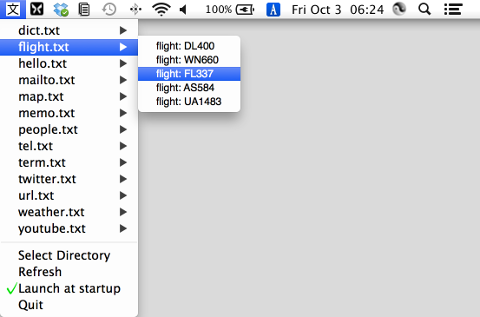
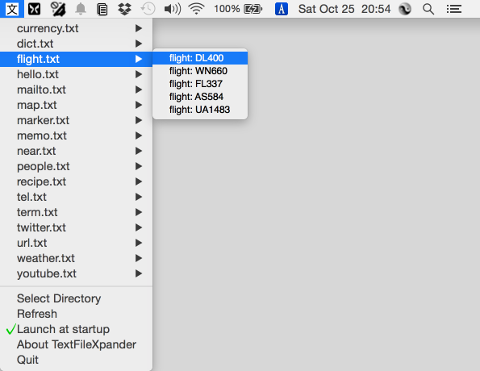
Add "currency:" magic word. Change the site for "flight:" magic word. Modify "route:" magic word, add "from: here". Change the site for "weather:" magic word.

Changed region(s): [[0.0, 0.0, 1.0, 1.0]]

diff --git a/README.md b/README.md
@@ -19,29 +19,30 @@ TextFileXpander does not have many rules.
 |:--|:--|:--:|:--:|:--:|:--:|
 |"---"|Separator|o|o|o|o|
 |"--- text"|Separator with Text|*1|*1|o|o|
-|marker:|Change Text Color|o|o|*4|o|
-|dict:|Launch the built-in dictionary|o|x|o|x|
-|flight:|Open Google Search|o|o|o|o|
-|mailto:|Launch the email client|o|o|o|o|
-|map:|Open Google Maps|o|o|o|o|
-|near:|Open Foursquare|o|o|o|o|
-|people:|Launch Contacts|*2|x|x|*3|
-|recipe:|Open Epicurious.com|o|o|*4|o|
-|route:|Open Google Maps|o|o|o|o|
-|tel:|Open Phone app|x|x|o|o|
-|twitter:|Post to Twitter|o|x|o|o|
-|url:|Open an URL in the browser|o|o|o|o|
-|weather:|Open weather.com|o|o|o|o|
-|youtube:|Open YouTube|o|o|o|o|
+|[marker:](https://github.com/wanswings/TextFileXpanderData/blob/master/marker/marker.md)|Change Text Color|o|o|o|o|
+|[currency:](https://github.com/wanswings/TextFileXpanderData/blob/master/currency/currency.md)|Open Google Finance|o|o|*4|o|
+|[dict:](https://github.com/wanswings/TextFileXpanderData/blob/master/dict/dict.md)|Launch the built-in dictionary|o|x|o|x|
+|[flight:](https://github.com/wanswings/TextFileXpanderData/blob/master/flight/flight.md)|Open FlightAware|o|o|o|o|
+|[mailto:](https://github.com/wanswings/TextFileXpanderData/blob/master/mailto/mailto.md)|Launch the email client|o|o|o|o|
+|[map:](https://github.com/wanswings/TextFileXpanderData/blob/master/map/map.md)|Open Google Maps|o|o|o|o|
+|[near:](https://github.com/wanswings/TextFileXpanderData/blob/master/near/near.md)|Open Foursquare|o|o|o|o|
+|[people:](https://github.com/wanswings/TextFileXpanderData/blob/master/people/people.md)|Launch Contacts|*2|x|x|*3|
+|[recipe:](https://github.com/wanswings/TextFileXpanderData/blob/master/recipe/recipe.md)|Open Epicurious.com|o|o|o|o|
+|[route:](https://github.com/wanswings/TextFileXpanderData/blob/master/map/map.md)|Open Google Maps|o|o|o|o|
+|[tel:](https://github.com/wanswings/TextFileXpanderData/blob/master/tel/tel.md)|Open Phone app|x|x|o|o|
+|[twitter:](https://github.com/wanswings/TextFileXpanderData/blob/master/twitter/twitter.md)|Post to Twitter|o|x|o|o|
+|[url:](https://github.com/wanswings/TextFileXpanderData/blob/master/url/url.md)|Open an URL in the browser|o|o|o|o|
+|[weather:](https://github.com/wanswings/TextFileXpanderData/blob/master/weather/weather.md)|Open Google Search|o|o|o|o|
+|[youtube:](https://github.com/wanswings/TextFileXpanderData/blob/master/youtube/youtube.md)|Open YouTube|o|o|o|o|
 
-*1 Behave like Separator.  
-*2 Try to paste a name in the Contacts search box. If it's not work, you should paste from Pasteboard manually.  
-*3 Copy a name to Clipboard and launch.  
-*4 Coming soon.
+    *1 Behave like Separator.
+    *2 Try to paste a name in the Contacts search box. If it's not work, you should paste from Pasteboard manually.
+    *3 Copy a name to Clipboard and launch.
+    *4 Coming soon.
 
 `TextFileXpander uses .txt extension only.`
 
-`TextFileXpander cannot use sub folder.`
+`TextFileXpander cannot use sub folders.`
 
 Let's make your own files.
 --------------------
@@ -49,31 +50,6 @@ The best way to see how TextFileXpander formatting works to refer to these sampl
 
 * [Simple](https://github.com/wanswings/TextFileXpanderData/blob/master/simple/simple.md) sample
 
-* [marker:](https://github.com/wanswings/TextFileXpanderData/blob/master/marker/marker.md) sample
-
-* [dict:](https://github.com/wanswings/TextFileXpanderData/blob/master/dict/dict.md) sample
-
-* [flight:](https://github.com/wanswings/TextFileXpanderData/blob/master/flight/flight.md) sample
-
-* [mailto:](https://github.com/wanswings/TextFileXpanderData/blob/master/mailto/mailto.md) sample
-
-* [map: & route:](https://github.com/wanswings/TextFileXpanderData/blob/master/map/map.md) sample
-
-* [near:](https://github.com/wanswings/TextFileXpanderData/blob/master/near/near.md) sample
-
-* [people:](https://github.com/wanswings/TextFileXpanderData/blob/master/people/people.md) sample
-
-* [recipe:](https://github.com/wanswings/TextFileXpanderData/blob/master/recipe/recipe.md) sample
-
-* [tel:](https://github.com/wanswings/TextFileXpanderData/blob/master/tel/tel.md) sample
-
-* [twitter:](https://github.com/wanswings/TextFileXpanderData/blob/master/twitter/twitter.md) sample
-
-* [url:](https://github.com/wanswings/TextFileXpanderData/blob/master/url/url.md) sample
-
-* [weather:](https://github.com/wanswings/TextFileXpanderData/blob/master/weather/weather.md) sample
-
-* [youtube:](https://github.com/wanswings/TextFileXpanderData/blob/master/youtube/youtube.md) sample
 
 *****
 Copyright (c) 2014 wanswings

diff --git a/currency/currency.md b/currency/currency.md
@@ -1,0 +1,41 @@
+TextFileXpander
+====================
+#### Sample text files.
+*****
+![](https://raw.github.com/wanswings/TextFileXpanderData/master/simple/screenshots/icon64x64.png)
+
+currency.txt
+--------------------
+```
+currency: from:USD to:JPY
+currency: from:USD to:GBP
+currency: from:USD to:EUR
+currency: from:GBP to:JPY
+currency: from:GBP to:EUR
+currency: from:EUR to:JPY
+currency: from:USD to:HKD
+currency: from:USD to:TWD
+currency: from:USD to:THB
+currency: from:USD to:MYR
+```
+
+* Screenshots of currency.txt running on Mac OS X.
+
+![](https://raw.github.com/wanswings/TextFileXpanderData/master/currency/screenshots/screenshotM1.png)
+
+![](https://raw.github.com/wanswings/TextFileXpanderData/master/currency/screenshots/screenshotM2.png)
+
+* Screenshots of currency.txt running on Windows.
+
+![](https://raw.github.com/wanswings/TextFileXpanderData/master/currency/screenshots/screenshotW1.png)
+
+* Screenshots of currency.txt running on iOS.
+
+![](https://raw.github.com/wanswings/TextFileXpanderData/master/currency/screenshots/screenshoti1.png)
+
+* Screenshots of currency.txt running on Android.
+
+![](https://raw.github.com/wanswings/TextFileXpanderData/master/currency/screenshots/screenshotA1.png)
+
+*****
+Copyright (c) 2014 wanswings

diff --git a/marker/marker.md b/marker/marker.md
@@ -28,6 +28,12 @@ marker:weak: Pay the rent next week.
 
 ![](https://raw.github.com/wanswings/TextFileXpanderData/master/marker/screenshots/screenshotW1.png)
 
+* Screenshots of marker.txt running on iOS.
+
+![](https://raw.github.com/wanswings/TextFileXpanderData/master/marker/screenshots/screenshoti1.png)
+
+![](https://raw.github.com/wanswings/TextFileXpanderData/master/marker/screenshots/screenshoti2.png)
+
 * Screenshots of marker.txt running on Android.
 
 ![](https://raw.github.com/wanswings/TextFileXpanderData/master/marker/screenshots/screenshotA1.png)

diff --git a/map/map.md b/map/map.md
@@ -44,6 +44,10 @@ map.txt (route)
 -------------------- route
 route: from: tokyo, japan to: nagoya, japan
 route: from: fork union, virginia, usa to: tampa, florida, usa
+
+-------------------- route (from current location)
+route: from: here to: nagoya, japan
+route: from: here to: tampa, florida, usa
 ```
 
 * Screenshots of map.txt (route) running on Mac OS X.
